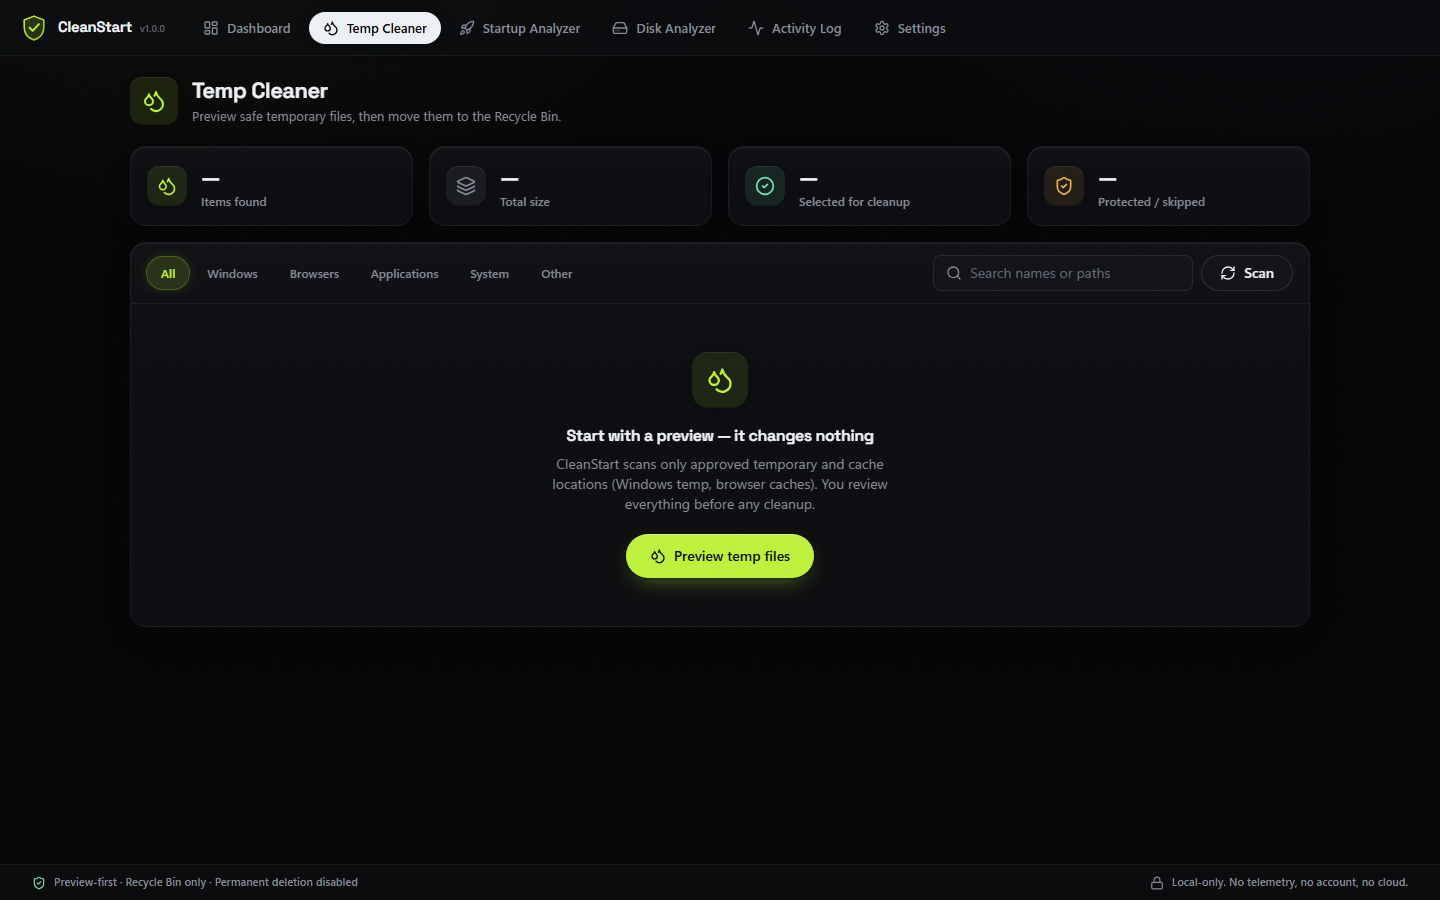
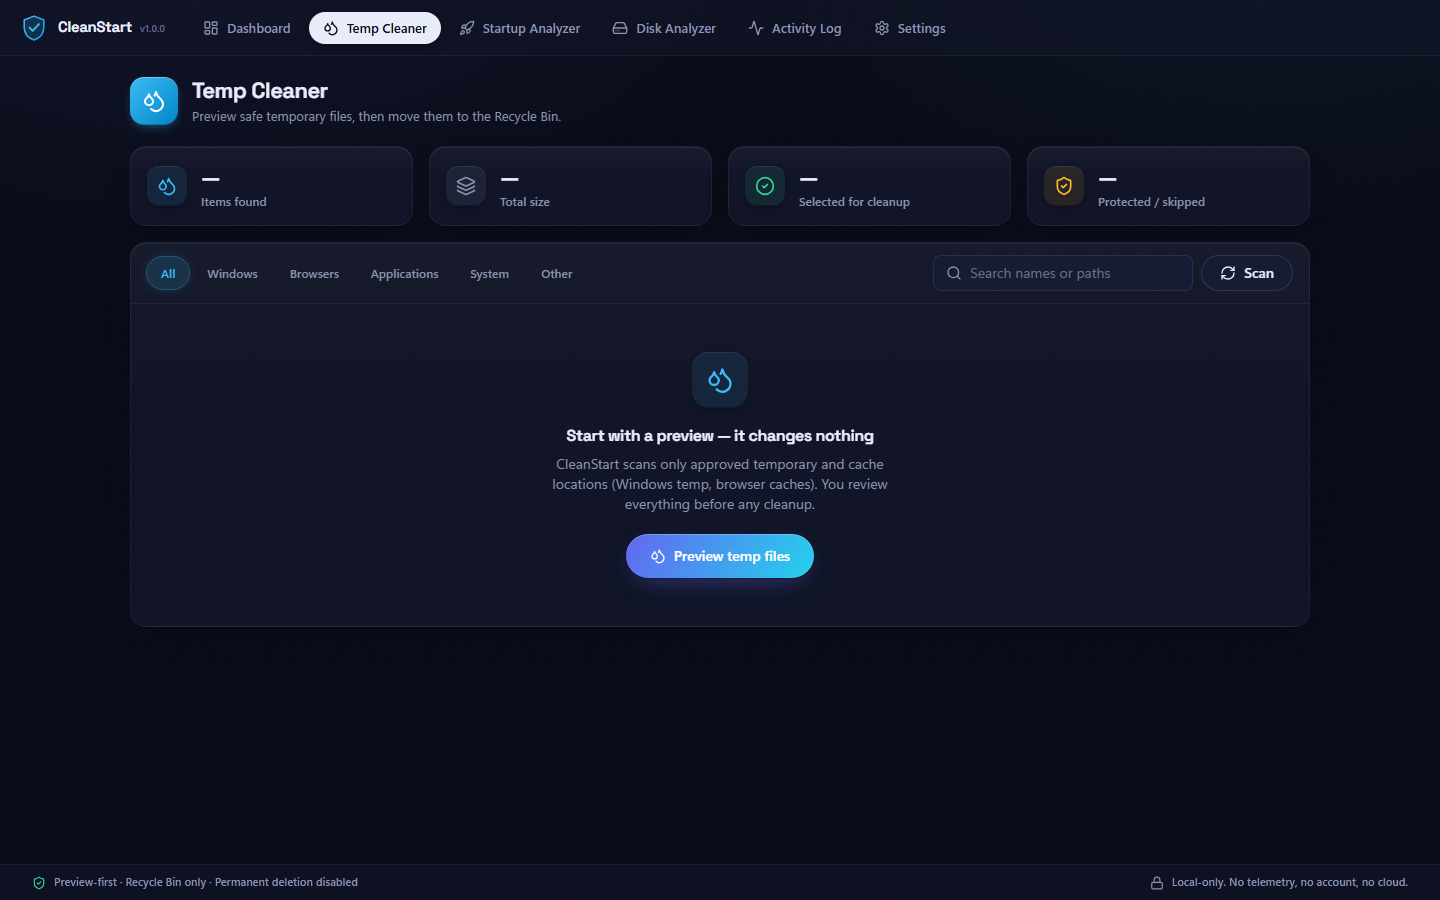
Retheme v3: deep indigo base, indigo-to-cyan gradient brand, module tiles
Pass guided by ui-ux-pro-max rules (semantic tokens, paired light/dark,
state clarity, motion 150-300ms) and frontend-design direction. Replaces
the black/lime theme with a richer trust-blue system while keeping the
v2 structure (radar hero, spotlight cards, pill buttons, Space Grotesk).

- Tokens: deep indigo-navy background with indigo/cyan ambient glows;
  cyan accent; brand gradient endpoints (--grad-a indigo, --grad-b cyan)
  themed for both modes; light theme retuned to match.
- Primary button: indigo-to-cyan gradient, white text, colored shadow,
  hover shine sweep retained.
- Module identity returns: macOS-settings-style gradient icon tiles
  (cyan / violet / amber / slate) with white glyphs and tinted drops;
  spotlight cards now cast per-module colored hover shadows.
- Page headers use the same gradient tile vocabulary as the dashboard.
- Settings theme previews updated to the new palette with a gradient
  accent swatch.

diff --git a/src/styles.css b/src/styles.css
@@ -17,69 +17,72 @@
 
 :root,
 :root[data-theme="dark"] {
-  --c-bg: 5 5 7;
-  --c-surface: 12 13 16;
-  --c-surface2: 18 19 24;
-  --c-surface3: 26 28 34;
-  --c-ink: 237 240 244;
-  --c-muted: 132 140 152;
-  --c-edge: 148 156 170;
-  --c-accent: 190 242 60;
-  --c-accent-strong: 154 205 30;
-  --c-violet: 158 197 255;
-  --c-violet-strong: 125 170 240;
-  --c-success: 110 231 183;
-  --c-warning: 235 179 75;
-  --c-danger: 244 113 113;
+  --c-bg: 9 12 24;
+  --c-surface: 16 20 38;
+  --c-surface2: 22 27 50;
+  --c-surface3: 31 37 66;
+  --c-ink: 233 237 250;
+  --c-muted: 139 148 176;
+  --c-edge: 148 158 196;
+  --c-accent: 56 189 248;
+  --c-accent-strong: 14 165 233;
+  --c-violet: 167 139 250;
+  --c-violet-strong: 139 92 246;
+  --c-success: 52 211 153;
+  --c-warning: 251 191 36;
+  --c-danger: 248 113 113;
+
+  /* Brand gradient endpoints — indigo into cyan. */
+  --grad-a: 99 102 241;
+  --grad-b: 34 211 238;
 
   /* Atmosphere */
-  --bg-glow-a: rgb(190 242 60 / 0.05);
-  --bg-glow-b: rgb(158 197 255 / 0.03);
-  --noise-opacity: 0.028;
+  --bg-glow-a: rgb(99 102 241 / 0.1);
+  --bg-glow-b: rgb(34 211 238 / 0.06);
+  --noise-opacity: 0.024;
   --hairline: rgb(255 255 255 / 0.07);
   --hairline-strong: rgb(255 255 255 / 0.13);
-  --card-topline: rgb(255 255 255 / 0.06);
-  --card-sheen: rgb(255 255 255 / 0.016);
-  --spot: rgb(190 242 60 / 0.07);
-  --spot-border: rgb(190 242 60 / 0.35);
+  --card-topline: rgb(255 255 255 / 0.07);
+  --card-sheen: rgb(255 255 255 / 0.025);
+  --spot: rgb(56 189 248 / 0.07);
+  --spot-border: rgb(56 189 248 / 0.4);
 
   color-scheme: dark;
 }
 
 :root[data-theme="light"] {
-  --c-bg: 246 246 244;
+  --c-bg: 243 245 251;
   --c-surface: 255 255 255;
-  --c-surface2: 247 247 245;
-  --c-surface3: 238 238 235;
-  --c-ink: 17 19 23;
-  --c-muted: 105 112 122;
-  --c-edge: 60 66 76;
-  --c-accent: 90 124 15;
-  --c-accent-strong: 70 98 10;
-  --c-violet: 70 110 180;
-  --c-violet-strong: 50 90 160;
-  --c-success: 16 140 90;
-  --c-warning: 170 110 20;
-  --c-danger: 210 50 50;
+  --c-surface2: 245 247 252;
+  --c-surface3: 234 238 248;
+  --c-ink: 16 20 38;
+  --c-muted: 90 100 128;
+  --c-edge: 55 65 100;
+  --c-accent: 2 132 199;
+  --c-accent-strong: 3 105 161;
+  --c-violet: 109 40 217;
+  --c-violet-strong: 91 33 182;
+  --c-success: 5 150 105;
+  --c-warning: 180 83 9;
+  --c-danger: 220 38 38;
 
-  --bg-glow-a: rgb(120 160 30 / 0.05);
-  --bg-glow-b: rgb(70 110 180 / 0.03);
-  --noise-opacity: 0.018;
-  --hairline: rgb(17 19 23 / 0.08);
-  --hairline-strong: rgb(17 19 23 / 0.16);
+  --grad-a: 79 70 229;
+  --grad-b: 8 145 178;
+
+  --bg-glow-a: rgb(79 70 229 / 0.07);
+  --bg-glow-b: rgb(8 145 178 / 0.05);
+  --noise-opacity: 0.015;
+  --hairline: rgb(16 20 38 / 0.08);
+  --hairline-strong: rgb(16 20 38 / 0.16);
   --card-topline: rgb(255 255 255 / 0.7);
   --card-sheen: rgb(255 255 255 / 0.4);
-  --spot: rgb(120 160 30 / 0.07);
-  --spot-border: rgb(90 124 15 / 0.4);
+  --spot: rgb(2 132 199 / 0.06);
+  --spot-border: rgb(2 132 199 / 0.4);
 
   color-scheme: light;
 }
 
-/* The lime button is the same in both themes — black text on electric lime. */
 :root {
-  --lime: 190 242 60;
-  --lime-deep: 158 214 36;
-
   --ease-out-strong: cubic-bezier(0.23, 1, 0.32, 1);
   --ease-in-out-strong: cubic-bezier(0.77, 0, 0.175, 1);
   --ease-spring: cubic-bezier(0.34, 1.35, 0.45, 1);
@@ -509,22 +512,27 @@ button:disabled {
 }
 
 /* Buttons ------------------------------------------------------------------
-   Primary: electric lime pill, black text, in both themes. The shine sweep
-   is a parked light bar that crosses on hover (transform-only). */
+   Primary: the brand gradient (indigo into cyan), white text, colored
+   shadow. The shine sweep is a parked light bar that crosses on hover
+   (transform-only). */
 
 .btn-primary {
   position: relative;
   overflow: hidden;
-  color: rgb(10 12 8);
-  background: rgb(var(--lime));
+  color: #fff;
+  background-image: linear-gradient(
+    120deg,
+    rgb(var(--grad-a)),
+    rgb(var(--grad-b))
+  );
   box-shadow:
-    inset 0 1px 0 rgb(255 255 255 / 0.35),
+    inset 0 1px 0 rgb(255 255 255 / 0.25),
     0 1px 2px rgba(0, 0, 0, 0.4),
-    0 8px 24px -10px rgb(var(--lime) / 0.55);
+    0 8px 24px -10px rgb(var(--grad-a) / 0.6);
   transition:
     transform 140ms var(--ease-out-strong),
     box-shadow 200ms ease,
-    background-color 200ms ease;
+    filter 200ms ease;
 }
 
 .btn-primary .btn-shine {
@@ -546,11 +554,11 @@ button:disabled {
 
 @media (hover: hover) and (pointer: fine) {
   .btn-primary:hover:not(:disabled) {
-    background: rgb(var(--lime-deep));
+    filter: brightness(1.1);
     box-shadow:
-      inset 0 1px 0 rgb(255 255 255 / 0.4),
+      inset 0 1px 0 rgb(255 255 255 / 0.3),
       0 1px 2px rgba(0, 0, 0, 0.4),
-      0 10px 32px -10px rgb(var(--lime) / 0.7);
+      0 10px 32px -10px rgb(var(--grad-b) / 0.6);
   }
 
   .btn-primary:hover:not(:disabled) .btn-shine {
@@ -638,6 +646,75 @@ button:disabled {
     rgb(var(--c-accent))
   );
   box-shadow: 0 0 12px -3px rgb(var(--c-accent) / 0.5);
+}
+
+/* Gradient module tiles — macOS-settings-style icon plates. Each module owns
+   a gradient; the glyph is always white. Inner top light keeps them "glassy". */
+
+.grad-tile {
+  color: #fff;
+  box-shadow:
+    inset 0 1px 0 rgb(255 255 255 / 0.3),
+    inset 0 -1px 0 rgb(0 0 0 / 0.2),
+    0 4px 12px -4px var(--tile-shadow, rgb(0 0 0 / 0.5));
+}
+
+.grad-tile[data-tone="accent"] {
+  background-image: linear-gradient(135deg, #38bdf8, #0284c7);
+  --tile-shadow: rgb(56 189 248 / 0.45);
+}
+
+.grad-tile[data-tone="violet"] {
+  background-image: linear-gradient(135deg, #a78bfa, #7c3aed);
+  --tile-shadow: rgb(167 139 250 / 0.45);
+}
+
+.grad-tile[data-tone="warning"] {
+  background-image: linear-gradient(135deg, #fbbf24, #d97706);
+  --tile-shadow: rgb(251 191 36 / 0.4);
+}
+
+.grad-tile[data-tone="neutral"] {
+  background-image: linear-gradient(135deg, #94a3b8, #475569);
+  --tile-shadow: rgb(148 163 184 / 0.35);
+}
+
+.grad-tile[data-tone="success"] {
+  background-image: linear-gradient(135deg, #34d399, #059669);
+  --tile-shadow: rgb(52 211 153 / 0.4);
+}
+
+.grad-tile[data-tone="danger"] {
+  background-image: linear-gradient(135deg, #f87171, #dc2626);
+  --tile-shadow: rgb(248 113 113 / 0.4);
+}
+
+/* Per-module colored hover shadow on spotlight cards. */
+@media (hover: hover) and (pointer: fine) {
+  .spot-card[data-tone="accent"]:hover {
+    box-shadow:
+      inset 0 1px 0 var(--card-topline),
+      0 1px 2px rgba(0, 0, 0, 0.3),
+      0 24px 48px -20px rgb(56 189 248 / 0.3);
+  }
+  .spot-card[data-tone="violet"]:hover {
+    box-shadow:
+      inset 0 1px 0 var(--card-topline),
+      0 1px 2px rgba(0, 0, 0, 0.3),
+      0 24px 48px -20px rgb(167 139 250 / 0.3);
+  }
+  .spot-card[data-tone="warning"]:hover {
+    box-shadow:
+      inset 0 1px 0 var(--card-topline),
+      0 1px 2px rgba(0, 0, 0, 0.3),
+      0 24px 48px -20px rgb(251 191 36 / 0.28);
+  }
+  .spot-card[data-tone="neutral"]:hover {
+    box-shadow:
+      inset 0 1px 0 var(--card-topline),
+      0 1px 2px rgba(0, 0, 0, 0.3),
+      0 24px 48px -20px rgb(148 163 184 / 0.28);
+  }
 }
 
 /* Icon tile — monochrome, machined. Accent appears only on the icon glyph. */

diff --git a/src/screens/Settings.tsx b/src/screens/Settings.tsx
@@ -270,12 +270,12 @@ function ThemeOption({
       <span
         aria-hidden="true"
         className="block px-3 pt-3"
-        style={{ background: dark ? "rgb(8 11 15)" : "rgb(241 244 249)" }}
+        style={{ background: dark ? "rgb(9 12 24)" : "rgb(243 245 251)" }}
       >
         <span
           className="block rounded-t-lg p-2"
           style={{
-            background: dark ? "rgb(16 21 28)" : "rgb(255 255 255)",
+            background: dark ? "rgb(16 20 38)" : "rgb(255 255 255)",
             boxShadow: dark
               ? "inset 0 1px 0 rgb(255 255 255 / 0.05)"
               : "inset 0 1px 0 rgb(255 255 255 / 0.65), 0 0 0 1px rgb(15 23 38 / 0.06)",
@@ -283,16 +283,20 @@ function ThemeOption({
         >
           <span
             className="block h-1.5 w-10 rounded-full"
-            style={{ background: dark ? "rgb(233 239 246)" : "rgb(15 23 38)", opacity: 0.85 }}
+            style={{ background: dark ? "rgb(233 237 250)" : "rgb(16 20 38)", opacity: 0.85 }}
           />
           <span
             className="mt-1.5 block h-1 w-16 rounded-full"
-            style={{ background: dark ? "rgb(141 154 171)" : "rgb(82 98 122)", opacity: 0.6 }}
+            style={{ background: dark ? "rgb(139 148 176)" : "rgb(90 100 128)", opacity: 0.6 }}
           />
           <span className="mt-2 flex items-center gap-1 pb-0.5">
             <span
               className="block h-2.5 w-7 rounded-sm"
-              style={{ background: dark ? "rgb(45 212 191)" : "rgb(13 148 136)" }}
+              style={{
+                backgroundImage: dark
+                  ? "linear-gradient(120deg, rgb(99 102 241), rgb(34 211 238))"
+                  : "linear-gradient(120deg, rgb(79 70 229), rgb(8 145 178))",
+              }}
             />
             <span
               className="block h-2.5 w-7 rounded-sm"

diff --git a/src/screens/Dashboard.tsx b/src/screens/Dashboard.tsx
@@ -30,6 +30,7 @@ interface ModuleCardData {
   title: string;
   description: string;
   icon: LucideIcon;
+  tone: Tone;
   action: string;
   stats: [ModuleStat, ModuleStat];
 }
@@ -136,6 +137,7 @@ export function DashboardScreen({ onNavigate }: { onNavigate: (screen: ScreenId)
       title: "Temp Cleaner",
       description: "Preview safe temp files, then send them to the Recycle Bin.",
       icon: Droplets,
+      tone: "accent",
       action: "Preview temp files",
       stats: [
         {
@@ -153,6 +155,7 @@ export function DashboardScreen({ onNavigate }: { onNavigate: (screen: ScreenId)
       title: "Startup Analyzer",
       description: "Review what launches with Windows. Disable reversibly.",
       icon: Rocket,
+      tone: "violet",
       action: "Review startup",
       stats: [
         {
@@ -173,6 +176,7 @@ export function DashboardScreen({ onNavigate }: { onNavigate: (screen: ScreenId)
       title: "Disk Analyzer",
       description: "See which profile folders use the most space. Read-only.",
       icon: HardDrive,
+      tone: "warning",
       action: "Analyze disk usage",
       stats: [
         {
@@ -192,6 +196,7 @@ export function DashboardScreen({ onNavigate }: { onNavigate: (screen: ScreenId)
       title: "Activity Log",
       description: "Every scan and cleanup, logged on this PC only.",
       icon: Activity,
+      tone: "neutral",
       action: "Open history",
       stats: [
         {
@@ -464,6 +469,7 @@ function ModuleCard({
   return (
     <Card
       className="spot-card animate-rise group flex cursor-pointer flex-col p-4"
+      data-tone={module.tone}
       style={{ animationDelay: `${delay}ms` }}
       onClick={onOpen}
       onMouseMove={trackSpot}
@@ -477,8 +483,11 @@ function ModuleCard({
         }
       }}
     >
-      <span className="icon-bezel grid h-11 w-11 place-items-center rounded-xl bg-edge/[0.07] ring-1 ring-edge/15 transition-colors duration-200 group-hover:bg-accent/10 group-hover:ring-accent/25">
-        <Icon className="h-5 w-5 text-muted transition-colors duration-200 group-hover:text-accent" />
+      <span
+        className="grad-tile grid h-11 w-11 place-items-center rounded-xl"
+        data-tone={module.tone}
+      >
+        <Icon className="h-5 w-5" />
       </span>
 
       <h3 className="type-display mt-3.5 text-[15px] font-bold text-ink">{module.title}</h3>

diff --git a/src/components/Shell.tsx b/src/components/Shell.tsx
@@ -17,7 +17,6 @@ import type { LucideIcon } from "lucide-react";
 import type { ReactNode } from "react";
 import { isTauri } from "../lib/ipc";
 import type { ScreenId } from "../lib/types";
-import { IconBox } from "./ui";
 import type { Tone } from "./ui";
 
 interface NavEntry {
@@ -96,7 +95,12 @@ export function Shell({
       >
         {heading && (
           <header className="mx-auto mb-5 flex w-full max-w-[1180px] items-center gap-3.5">
-            <IconBox icon={heading.icon} tone={heading.tone} size="lg" />
+            <span
+              className="grad-tile grid h-12 w-12 shrink-0 place-items-center rounded-[14px]"
+              data-tone={heading.tone}
+            >
+              <heading.icon className="h-6 w-6" />
+            </span>
             <div>
               <h1 className="type-display text-[22px] font-bold leading-7 text-ink">
                 {heading.title}